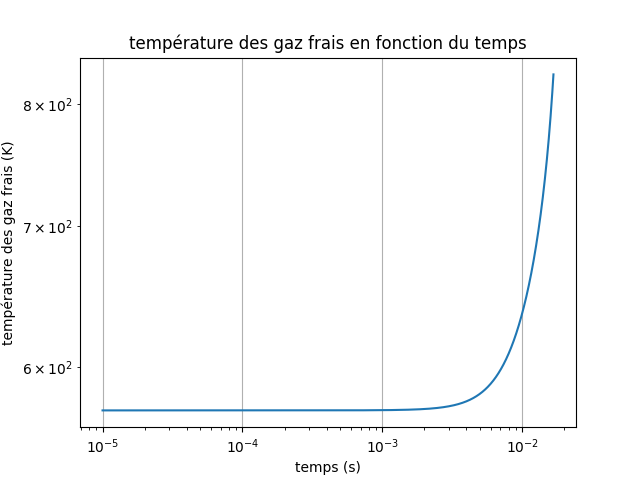
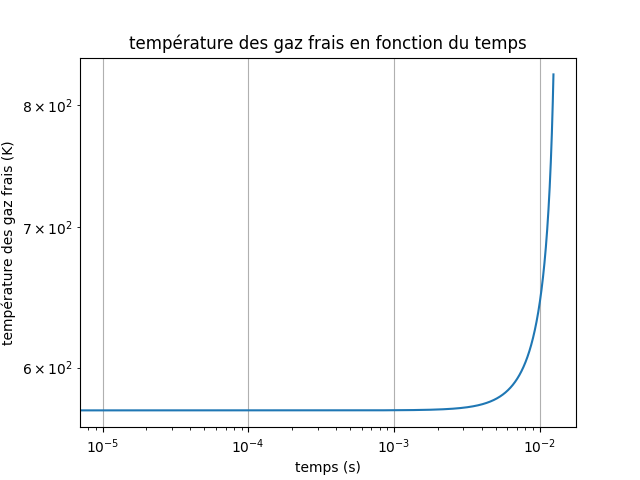
rho_masse

diff --git a/combustion/combustion.py b/combustion/combustion.py
@@ -15,15 +15,15 @@ P1 = 19.3*101325     # pression avant la combustion (Pa)
 T1 = 572.47          # température avant la combustion (K)
 R0 = 0.001          # rayon initiale de la boule allumée (m)
 R_p = 0.05          # rayon du piston (m)
-L_p = 0.03183098862 # longueur du piston (m)
+L_p = 0.0318 # longueur du piston (m)
 #V = np.pi*R_p**2*L_p  # volume du piston (cylindre)
-V = 2.82E-05        # volume des gaz dans le piston (m^3)
+V = 4/3*np.pi*R_p**3        # volume des gaz dans le piston (m^3)
 print("Volume du piston (m^3) = ", V)
 gamma = 1.2806
 YF0 = 0.0625         
 
 # Calcul de la vitesse de flamme initiale sL0 (LIVRE)
-phi = 1                             # richese
+phi = 1                             # richesse
 alpha = 2.18 - 0.8*(phi-1)
 beta = -0.16 + 0.22*(phi-1)
 B_M = 26.3*1e-2                      # m/s
@@ -60,7 +60,7 @@ y_c8h18 = 0.0625
 y_air = 0.9375
 y_n2 = 0.71512
 
-M_gf = 0.03041748131
+M_gf = 0.03041748131            # masse molaire gaz frais
 r_gf = 8.314 / M_gf
 rho_gf = P1 / (r_gf * T1)
 print("masse volumique des gaz frais (kg/m^3) = ", rho_gf)        # masse volumique des gaz frais à T1 et P1
@@ -88,15 +88,15 @@ print("masse volumique des gaz brûlés (kg/m^3) = ", rho_gb)        # masse vol
 # Variables en t 
 i=0                      # compteur d'itérations
 sL0 = sL0_livre          # à changer si on veut celle du LIVRE ou de la THESE
-sL_t = sL0               # vitesse de flamme à l'instant t
 T_gf_t = T1              # température des gaz frais (avant la combustion)
 T_gb_t = 2839.52         # température de fin de combustion (calculée pour isochore)
 P_t = P1                 # pression à l'instant t
 r_t = R0                 # m rayon initial de la boule
+sL_t = sL0*(T_gf_t/T0)**alpha * (P_t/P0)**beta               # vitesse de flamme à l'instant t
 vb_t = 4/3*np.pi*r_t**3  # m^3 volume de la boule
 masse_gb = vb_t*rho_gb              # masse des gaz brûlés 
 masse_gf = (V - vb_t)*rho_gf        # masse des gaz frais avec comme volume le cylindre du piston moins la boule
-masse_tot = masse_gb + masse_gf                 # masse totale des gaz
+masse_tot = masse_gb + masse_gf                 # masse totale des gaz (qui va rester constante au cours de la combustion)
 print("masse gaz brûlés (kg)= ", masse_gb)
 print("masse gaz frais (kg)= ", masse_gf)
 print("masse totale (kg)= ", masse_tot)
@@ -104,31 +104,33 @@ QF = 44.7e6              # J/kg QLHV pouvoir calorifique du carburant
 
 
 # variables à stocker
-#t_tot = [0]
-#sL_tot = [sL_t]
-#T_gf_tot = [T_gf_t]
-#T_gb_tot = [T_gb_t]
-#P_tot = [P_t]
-#r_tot = [r_t]  
-#rho_gb_tot = [rho_gb]
-#rho_gf_tot = [rho_gf]
-#masse_gb_tot = [masse_gb]
-#masse_total = [masse_tot]
-#masse_gf_tot = [masse_gf]
+t_tot = [0]
+sL_tot = [sL_t]
+T_gf_tot = [T_gf_t]
+T_gb_tot = [T_gb_t]
+P_tot = [P_t]
+r_tot = [r_t]  
+rho_gb_tot = [rho_gb]
+rho_gf_tot = [rho_gf]
+masse_gb_tot = [masse_gb]
+masse_total = [masse_tot]
+masse_gf_tot = [masse_gf]
 
-t_tot = []
-sL_tot = []
-T_gf_tot = []
-T_gb_tot = []
-P_tot = []
-r_tot = []  
-rho_gb_tot = []
-rho_gf_tot = []
-masse_gb_tot = []
-masse_total = []
-masse_gf_tot = []
-while r_t < 0.9*R_p :                   # mmasse_tot > 0
-    T_gb_dt = 2839.52 + (1+1091.5625/1423.522842) * (T_gf_t - T0)
+#t_tot = []
+#sL_tot = []
+#T_gf_tot = []
+#T_gb_tot = []
+#P_tot = []
+#r_tot = []  
+#rho_gb_tot = []
+#rho_gf_tot = []
+#masse_gb_tot = []
+#masse_total = []
+#masse_gf_tot = []
+
+while r_t < 0.9*R_p :                   # masse_tot > 0
+    #T_gb_dt = 2839.52 + (1+1091.5625/1423.522842) * (T_gf_dt - T0)
+    T_gb_dt = 2533.11 + 1.03 * (T_gf_t - T0)
     P_dt = P_t + dt * (gamma-1)/V * QF * (4*np.pi * r_t**2 * rho_gf * sL_t*YF0)
     #r_dt = r_t + dt * (rho_gf/rho_gb) * sL0*(T_gf_t/T0)**alpha * (P_t/P0)**beta
     r_dt = r_t + dt * (rho_gf/rho_gb) * sL_t
@@ -136,14 +138,14 @@ while r_t < 0.9*R_p :                   # mmasse_tot > 0
     T_gf_dt = T_gf_t * ((R_p ** 3 - r_t ** 3) / (R_p ** 3 - r_dt ** 3)) ** (gamma - 1)
     vb_t = 4/3*np.pi*r_t**3
 
-    rho_gf = P_dt / (r_gf * T_gf_dt)
-    rho_gb = P_dt / (r_gb * T_gb_dt)
+
     masse_gb = vb_t*rho_gb
-    masse_gf = (V -vb_t)*rho_gf     
+    masse_gf = masse_tot - vb_t*rho_gb     
     #masse_gf  = rho_gf * sL_t  * 4*np.pi*r_t**2
     masse_tot = masse_gb + masse_gf
     i+=1
-
+    rho_gf = P_dt / (r_gf * T_gf_dt)
+    rho_gb = P_dt / (r_gb * T_gb_dt)
     # changement des valeurs de variables avant l'itération suivante
     P_t = P_dt
     T_gb_t = T_gb_dt
@@ -242,9 +244,9 @@ plt.savefig('masse.png')
 
 
 plt.figure(6)
-plt.loglog(t_tot, r_tot)
-plt.xlabel('temps (s)')
-plt.ylabel('rayon de la boule (m)')
+plt.loglog([t_tot[i]*1000 for i in range(len(t_tot))], [r_tot[i]*1000 for i in range(len(r_tot))])
+plt.xlabel('temps (ms)')
+plt.ylabel('rayon de la boule (mm)')
 plt.title('rayon de la boule en fonction du temps')
 plt.grid()
 plt.savefig('rayon.png')
@@ -257,9 +259,12 @@ plt.title('vitesse de flamme en fonction du temps')
 plt.grid()
 plt.savefig('vitesse_flamme.png')
 
-reponse = input("Afficher les graphes ? (y/n) : ").strip().lower()
+plt.figure(8)
+plt.plot(r_tot, sL_tot)
+plt.xlabel('rayon de la boule (m)')
+plt.ylabel('vitesse de flamme (m/s)')
+plt.title('vitesse de flamme en fonction du rayon de la boule')
+plt.grid()
+plt.savefig('vitesse_flamme_rayon.png')
 
-if reponse == "y":
-    plt.show()
-else:
-    print("Graphique non affiché.")
+plt.show()
